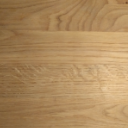
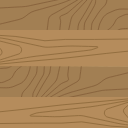
Add cable and lint

diff --git a/core/src/main/java/de/cdietze/ld37/core/BoardScreen.java b/core/src/main/java/de/cdietze/ld37/core/BoardScreen.java
@@ -29,7 +29,6 @@ import static de.cdietze.ld37.core.PointUtils.toY;
 public class BoardScreen extends Screen {
   public static final Logger log = new Logger("screen");
 
-  private static final float fieldGapWidth = 0.03f;
   private static final Dimension maxSize = new Dimension(1200, 800);
   public final MainGame game;
 
@@ -154,6 +153,7 @@ public class BoardScreen extends Screen {
       case DUST: {
         Entities.Dust dust = (Entities.Dust) entity;
         final GroupLayer group = new GroupLayer();
+        group.setDepth(Depths.entities);
         //group.setSize(1f, 1f).setOrigin(Layer.Origin.CENTER);
         dust.dustAmount.connectNotify(new Slot<Integer>() {
           @Override
@@ -170,7 +170,31 @@ public class BoardScreen extends Screen {
       }
       case BASE: {
         final ImageLayer layer = new ImageLayer(game.images.base);
+        layer.setDepth(Depths.entities);
         layer.setSize(1f, 1f).setOrigin(Layer.Origin.CENTER);
+        state.explored.get(entity.fieldIndex.get()).connectNotify(UiUtils.visibiltySlot(layer));
+        return Optional.<Layer>of(layer);
+      }
+      case CABLE: {
+        final ImageLayer layer = new ImageLayer(game.images.cable);
+        layer.setSize(1f, 1f).setOrigin(Layer.Origin.CENTER);
+        layer.setDepth(Depths.cables);
+        state.explored.get(entity.fieldIndex.get()).connectNotify(UiUtils.visibiltySlot(layer));
+        return Optional.<Layer>of(layer);
+      }
+      case LINT: {
+        final ImageLayer layer = new ImageLayer(game.images.lint);
+        layer.setSize(1f, 1f).setOrigin(Layer.Origin.CENTER);
+        layer.setDepth(Depths.lint);
+        state.explored.get(entity.fieldIndex.get()).connectNotify(UiUtils.visibiltySlot(layer));
+        return Optional.<Layer>of(layer);
+      }
+      case MOUSE: {
+        Entities.Mouse mouse = (Entities.Mouse) entity;
+        final ImageLayer layer = new ImageLayer(game.images.mouse);
+        layer.setSize(1f, 1f).setOrigin(Layer.Origin.CENTER);
+        state.explored.get(mouse.fieldIndex.get()).connectNotify(UiUtils.visibiltySlot(layer));
+        mouse.dir.connectNotify(rotateWithDirectionSlot(layer));
         return Optional.<Layer>of(layer);
       }
     }
@@ -204,6 +228,8 @@ public class BoardScreen extends Screen {
   private interface Depths {
     float background = 0f;
     float fields = 1f;
+    float cables = 1.5f;
+    float lint = 1.8f;
     float entities = 2f;
     float vacuum = 3f;
   }

diff --git a/core/src/main/java/de/cdietze/ld37/core/Entities.java b/core/src/main/java/de/cdietze/ld37/core/Entities.java
@@ -6,6 +6,16 @@ import react.ValueView;
 
 public class Entities {
 
+  public static Entity createBase(int initialFieldIndex) {
+    return new Entity(Entity.Type.BASE, initialFieldIndex);
+  }
+  public static Entity createCable(int initialFieldIndex) {
+    return new Entity(Entity.Type.CABLE, initialFieldIndex);
+  }
+  public static Entity createLint(int initialFieldIndex) {
+    return new Entity(Entity.Type.LINT, initialFieldIndex);
+  }
+
   public static class Vacuum extends Entity {
     public final Value<Direction> dir;
 
@@ -32,9 +42,12 @@ public class Entities {
     }
   }
 
-  public static class Base extends Entity {
-    public Base(int initialFieldIndex) {
-      super(Type.BASE, initialFieldIndex);
+  public static class Mouse extends Entity {
+    public final Value<Direction> dir;
+
+    public Mouse(int initialFieldIndex, Direction initialDirection) {
+      super(Type.MOUSE, initialFieldIndex);
+      this.dir = Value.create(initialDirection);
     }
   }
 }

diff --git a/core/src/main/java/de/cdietze/ld37/core/BoardState.java b/core/src/main/java/de/cdietze/ld37/core/BoardState.java
@@ -27,9 +27,18 @@ public class BoardState {
   {
     vacuum = new Entities.Vacuum(56, Direction.UP);
     entities.add(vacuum);
-    entities.add(new Entities.Base(vacuum.fieldIndex.get()));
+    entities.add(Entities.createBase(vacuum.fieldIndex.get()));
+    entities.add(Entities.createCable(vacuum.fieldIndex.get()));
+    entities.add(Entities.createBase(0));
+    entities.add(Entities.createCable(0));
+    entities.add(Entities.createCable(1));
+    entities.add(Entities.createCable(8));
+    entities.add(Entities.createCable(9));
+    entities.add(Entities.createLint(9));
+    entities.add(Entities.createLint(10));
     entities.add(new Entities.Dust(57, 4, dustRemaining));
     entities.add(new Entities.Dust(60, 4, dustRemaining));
+    entities.add(new Entities.Mouse(62, Direction.UP));
     explore(vacuum.fieldIndex.get());
     battery.update(10);
   }

diff --git a/core/src/main/java/de/cdietze/ld37/core/ImageLoader.java b/core/src/main/java/de/cdietze/ld37/core/ImageLoader.java
@@ -18,6 +18,9 @@ public class ImageLoader {
     public final Image vacuum = plat.assets().getImage("images/vacuum.png");
     public final Image parquet = plat.assets().getImage("images/parquet.png");
     public final Image base = plat.assets().getImage("images/base.png");
+    public final Image mouse = plat.assets().getImage("images/mouse.png");
+    public final Image cable = plat.assets().getImage("images/cable.png");
+    public final Image lint = plat.assets().getImage("images/lint.png");
     public final List<Image> dustList = ImmutableList.of(
             plat.assets().getImage("images/dust1.png"),
             plat.assets().getImage("images/dust2.png"),

diff --git a/core/src/main/java/de/cdietze/ld37/core/Entity.java b/core/src/main/java/de/cdietze/ld37/core/Entity.java
@@ -3,7 +3,7 @@ package de.cdietze.ld37.core;
 import com.google.common.base.MoreObjects;
 import react.IntValue;
 
-public abstract class Entity {
+public class Entity {
   public final Type type;
   public final IntValue fieldIndex;
 
@@ -21,6 +21,6 @@ public abstract class Entity {
   }
 
   enum Type {
-    MOUSE, CAT, VACUUM, DUST, BASE;
+    MOUSE, VACUUM, DUST, BASE, CABLE, LINT;
   }
 }
